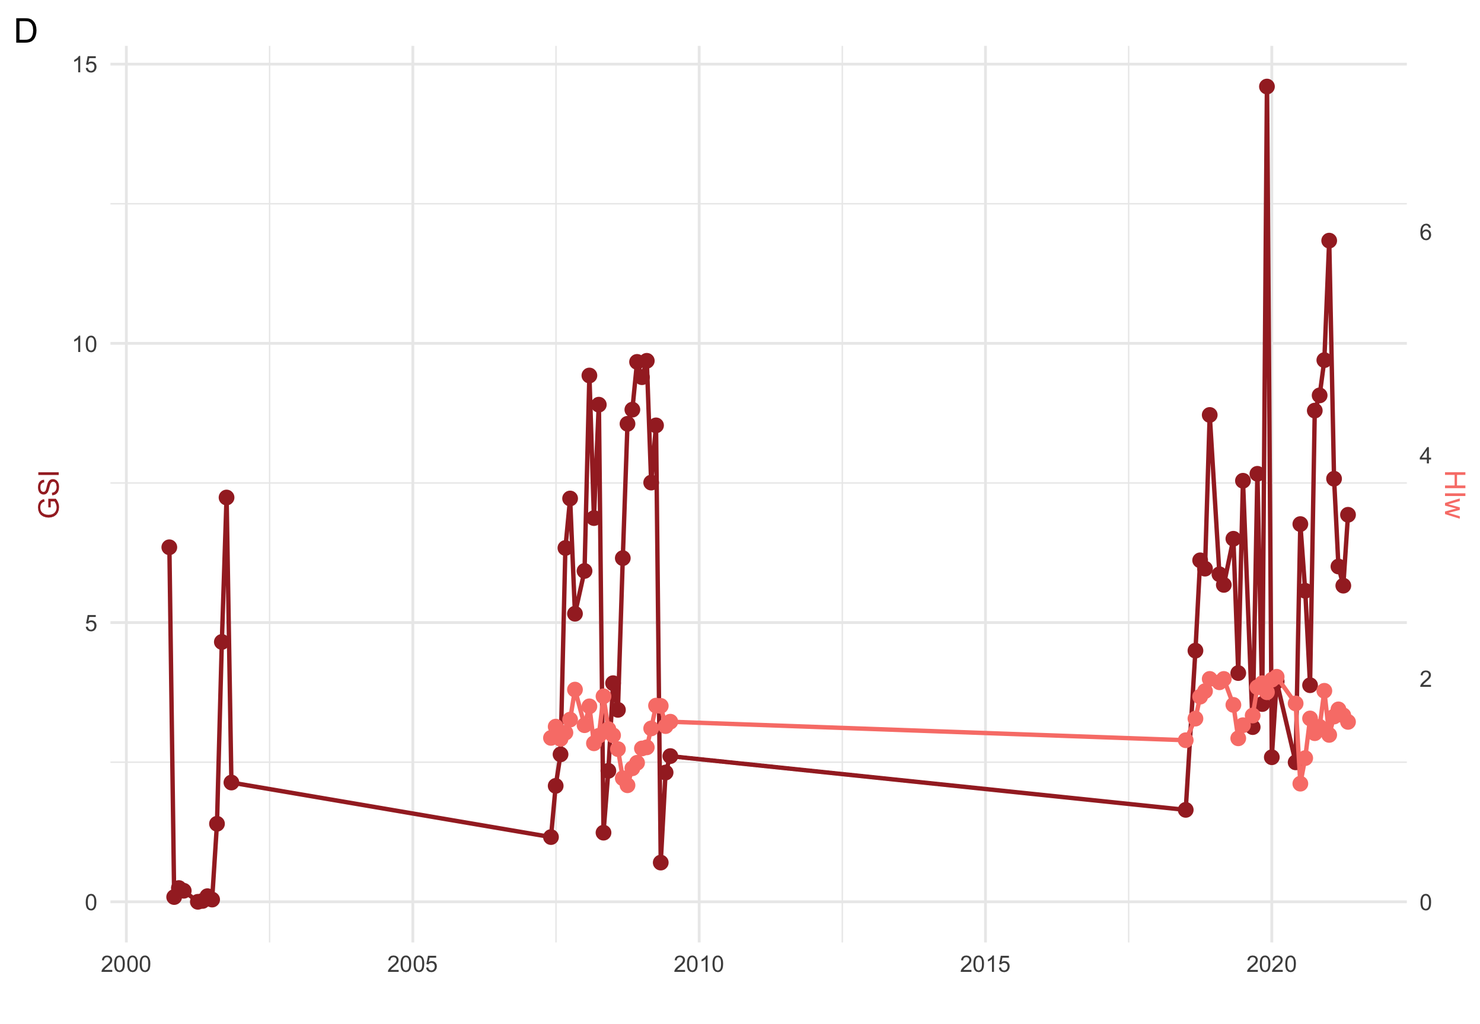
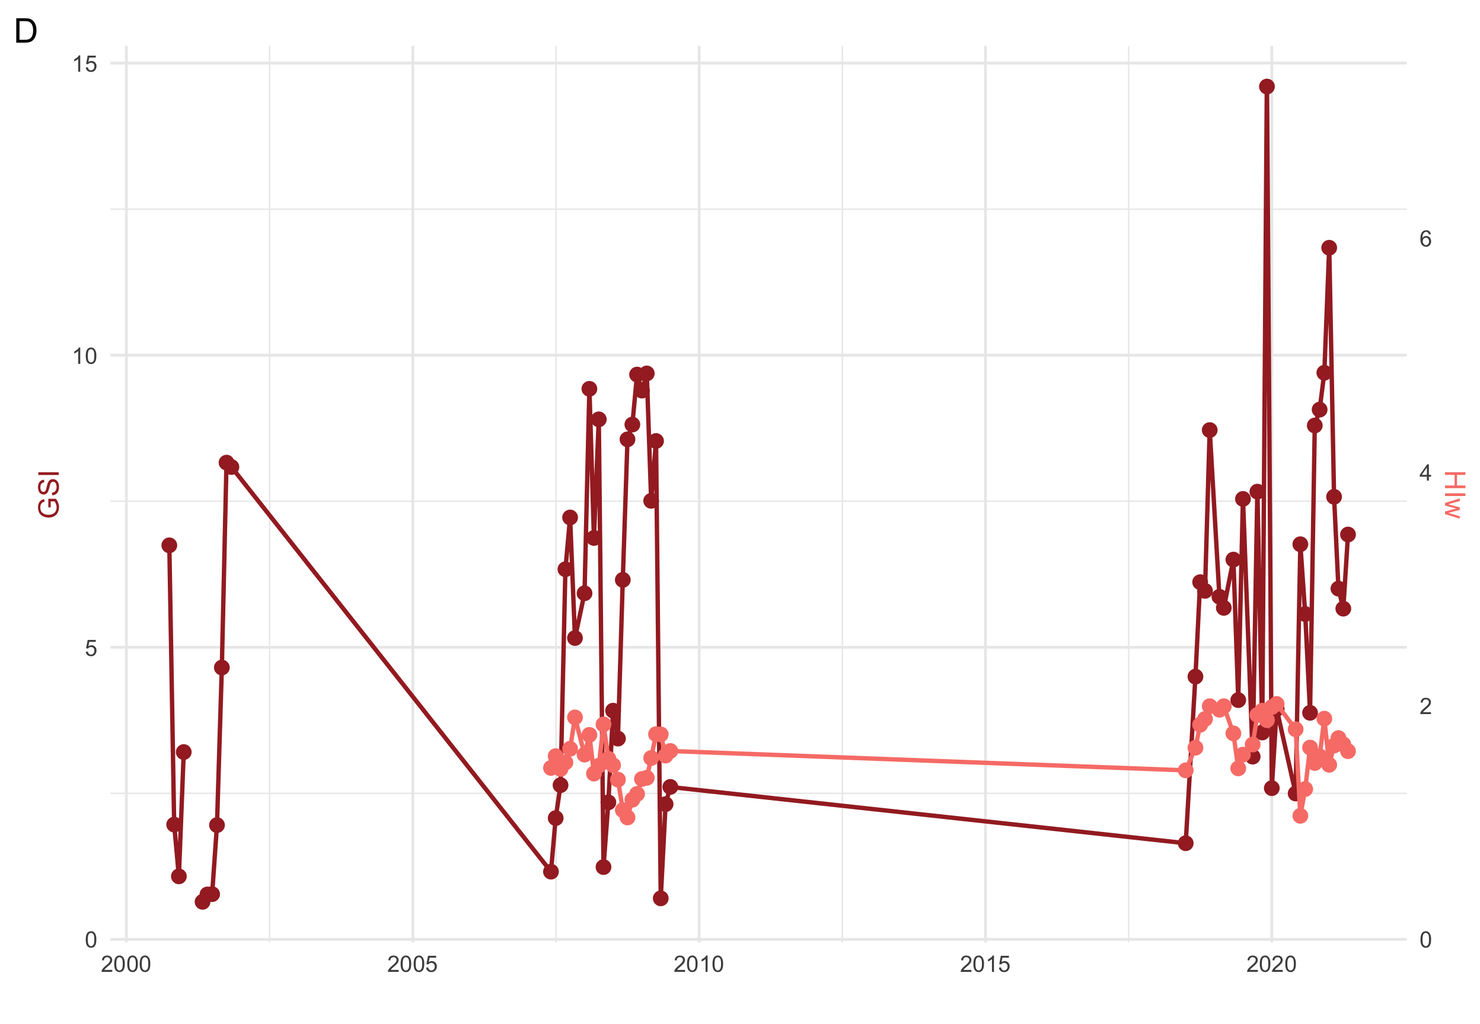
replaced 0s with NA

diff --git a/R-script/000.gambero2025_20y.html b/R-script/000.gambero2025_20y.html
@@ -118,7 +118,7 @@ pre > code.sourceCode > span > a:first-child::before { text-decoration: underlin
 <div class="sourceCode cell-code" id="cb1"><pre class="sourceCode r code-with-copy"><code class="sourceCode r"><span id="cb1-1"><a href="#cb1-1" aria-hidden="true" tabindex="-1"></a><span class="co"># import data</span></span>
 <span id="cb1-2"><a href="#cb1-2" aria-hidden="true" tabindex="-1"></a>pc <span class="ot">&lt;-</span> <span class="fu">read.xlsx</span>(<span class="fu">here</span>(<span class="st">"input/Gamberi morfometria 2000-2021.xlsx"</span>),</span>
 <span id="cb1-3"><a href="#cb1-3" aria-hidden="true" tabindex="-1"></a>                <span class="at">detectDates =</span> T)</span>
-<span id="cb1-4"><a href="#cb1-4" aria-hidden="true" tabindex="-1"></a></span>
+<span id="cb1-4"><a href="#cb1-4" aria-hidden="true" tabindex="-1"></a>pc[pc<span class="sc">==</span><span class="dv">0</span>] <span class="ot">&lt;-</span> <span class="cn">NA</span> <span class="co"># remove 0s</span></span>
 <span id="cb1-5"><a href="#cb1-5" aria-hidden="true" tabindex="-1"></a><span class="fu">glimpse</span>(pc)</span></code><button title="Copy to Clipboard" class="code-copy-button"><i class="bi"></i></button></pre></div>
 <div class="cell-output cell-output-stdout">
 <pre><code>Rows: 8,059
@@ -207,12 +207,12 @@ $ peso.gonadi     &lt;dbl&gt; NA, NA, NA, NA, NA, NA, NA, NA, NA, NA, NA, NA, NA
 <tr class="odd">
 <td style="text-align: left;">F</td>
 <td style="text-align: left;">peso.addome</td>
-<td style="text-align: right;">3296</td>
-<td style="text-align: right;">0.00</td>
+<td style="text-align: right;">3295</td>
+<td style="text-align: right;">0.40</td>
 <td style="text-align: right;">17.30</td>
 <td style="text-align: right;">6.30</td>
 <td style="text-align: right;">3.50</td>
-<td style="text-align: right;">6.65</td>
+<td style="text-align: right;">6.66</td>
 <td style="text-align: right;">2.66</td>
 <td style="text-align: right;">0.05</td>
 <td style="text-align: right;">0.09</td>
@@ -233,8 +233,8 @@ $ peso.gonadi     &lt;dbl&gt; NA, NA, NA, NA, NA, NA, NA, NA, NA, NA, NA, NA, NA
 <tr class="odd">
 <td style="text-align: left;">F</td>
 <td style="text-align: left;">Hiw</td>
-<td style="text-align: right;">2613</td>
-<td style="text-align: right;">0.00</td>
+<td style="text-align: right;">2612</td>
+<td style="text-align: right;">0.62</td>
 <td style="text-align: right;">19.40</td>
 <td style="text-align: right;">6.49</td>
 <td style="text-align: right;">3.10</td>
@@ -246,26 +246,26 @@ $ peso.gonadi     &lt;dbl&gt; NA, NA, NA, NA, NA, NA, NA, NA, NA, NA, NA, NA, NA
 <tr class="even">
 <td style="text-align: left;">F</td>
 <td style="text-align: left;">TwB</td>
-<td style="text-align: right;">3268</td>
-<td style="text-align: right;">0.00</td>
+<td style="text-align: right;">3258</td>
+<td style="text-align: right;">2.15</td>
 <td style="text-align: right;">53.64</td>
-<td style="text-align: right;">27.65</td>
+<td style="text-align: right;">27.66</td>
 <td style="text-align: right;">5.40</td>
-<td style="text-align: right;">28.27</td>
-<td style="text-align: right;">4.56</td>
-<td style="text-align: right;">0.08</td>
-<td style="text-align: right;">0.16</td>
+<td style="text-align: right;">28.35</td>
+<td style="text-align: right;">4.29</td>
+<td style="text-align: right;">0.07</td>
+<td style="text-align: right;">0.15</td>
 </tr>
 <tr class="odd">
 <td style="text-align: left;">F</td>
 <td style="text-align: left;">peso.gonadi</td>
-<td style="text-align: right;">1568</td>
-<td style="text-align: right;">0.00</td>
+<td style="text-align: right;">1114</td>
+<td style="text-align: right;">0.02</td>
 <td style="text-align: right;">4.41</td>
-<td style="text-align: right;">0.67</td>
-<td style="text-align: right;">1.67</td>
-<td style="text-align: right;">0.95</td>
-<td style="text-align: right;">0.98</td>
+<td style="text-align: right;">1.16</td>
+<td style="text-align: right;">1.40</td>
+<td style="text-align: right;">1.34</td>
+<td style="text-align: right;">0.91</td>
 <td style="text-align: right;">0.03</td>
 <td style="text-align: right;">0.05</td>
 </tr>
@@ -285,8 +285,8 @@ $ peso.gonadi     &lt;dbl&gt; NA, NA, NA, NA, NA, NA, NA, NA, NA, NA, NA, NA, NA
 <tr class="odd">
 <td style="text-align: left;">M</td>
 <td style="text-align: left;">peso.tot</td>
-<td style="text-align: right;">4640</td>
-<td style="text-align: right;">0.00</td>
+<td style="text-align: right;">4639</td>
+<td style="text-align: right;">1.20</td>
 <td style="text-align: right;">76.70</td>
 <td style="text-align: right;">21.30</td>
 <td style="text-align: right;">12.40</td>
@@ -298,8 +298,8 @@ $ peso.gonadi     &lt;dbl&gt; NA, NA, NA, NA, NA, NA, NA, NA, NA, NA, NA, NA, NA
 <tr class="even">
 <td style="text-align: left;">M</td>
 <td style="text-align: left;">peso.addome</td>
-<td style="text-align: right;">4720</td>
-<td style="text-align: right;">0.00</td>
+<td style="text-align: right;">4719</td>
+<td style="text-align: right;">0.40</td>
 <td style="text-align: right;">33.20</td>
 <td style="text-align: right;">5.30</td>
 <td style="text-align: right;">2.40</td>
@@ -324,11 +324,11 @@ $ peso.gonadi     &lt;dbl&gt; NA, NA, NA, NA, NA, NA, NA, NA, NA, NA, NA, NA, NA
 <tr class="even">
 <td style="text-align: left;">M</td>
 <td style="text-align: left;">Hiw</td>
-<td style="text-align: right;">4059</td>
-<td style="text-align: right;">0.00</td>
+<td style="text-align: right;">4056</td>
+<td style="text-align: right;">0.56</td>
 <td style="text-align: right;">20.00</td>
-<td style="text-align: right;">5.50</td>
-<td style="text-align: right;">2.16</td>
+<td style="text-align: right;">5.51</td>
+<td style="text-align: right;">2.15</td>
 <td style="text-align: right;">5.53</td>
 <td style="text-align: right;">1.59</td>
 <td style="text-align: right;">0.03</td>
@@ -337,15 +337,15 @@ $ peso.gonadi     &lt;dbl&gt; NA, NA, NA, NA, NA, NA, NA, NA, NA, NA, NA, NA, NA
 <tr class="odd">
 <td style="text-align: left;">M</td>
 <td style="text-align: left;">TwB</td>
-<td style="text-align: right;">4623</td>
-<td style="text-align: right;">0.00</td>
+<td style="text-align: right;">4620</td>
+<td style="text-align: right;">4.78</td>
 <td style="text-align: right;">50.73</td>
 <td style="text-align: right;">25.00</td>
 <td style="text-align: right;">5.28</td>
-<td style="text-align: right;">25.32</td>
-<td style="text-align: right;">4.36</td>
+<td style="text-align: right;">25.34</td>
+<td style="text-align: right;">4.31</td>
 <td style="text-align: right;">0.06</td>
-<td style="text-align: right;">0.13</td>
+<td style="text-align: right;">0.12</td>
 </tr>
 </tbody>
 </table>
@@ -1590,6 +1590,10 @@ $ peso.gonadi     &lt;dbl&gt; NA, NA, NA, NA, NA, NA, NA, NA, NA, NA, NA, NA, NA
 <span id="cb27-11"><a href="#cb27-11" aria-hidden="true" tabindex="-1"></a>        <span class="at">axis.title.y.right =</span> <span class="fu">element_text</span>(<span class="at">color =</span> <span class="st">"#F98178"</span>)</span>
 <span id="cb27-12"><a href="#cb27-12" aria-hidden="true" tabindex="-1"></a>    )</span></code><button title="Copy to Clipboard" class="code-copy-button"><i class="bi"></i></button></pre></div>
 <div class="cell-output cell-output-stderr">
+<pre><code>Warning: Removed 1 row containing missing values or values outside the scale range
+(`geom_point()`).</code></pre>
+</div>
+<div class="cell-output cell-output-stderr">
 <pre><code>Warning: Removed 12 rows containing missing values or values outside the scale range
 (`geom_point()`).</code></pre>
 </div>
@@ -1604,9 +1608,9 @@ $ peso.gonadi     &lt;dbl&gt; NA, NA, NA, NA, NA, NA, NA, NA, NA, NA, NA, NA, NA
 </figure>
 </div>
 </div>
-<div class="sourceCode cell-code" id="cb30"><pre class="sourceCode r code-with-copy"><code class="sourceCode r"><span id="cb30-1"><a href="#cb30-1" aria-hidden="true" tabindex="-1"></a>pc.ind <span class="sc">%&gt;%</span> </span>
-<span id="cb30-2"><a href="#cb30-2" aria-hidden="true" tabindex="-1"></a>    <span class="fu">ggplot</span>(<span class="fu">aes</span>(GSI,HIw))<span class="sc">+</span></span>
-<span id="cb30-3"><a href="#cb30-3" aria-hidden="true" tabindex="-1"></a>    <span class="fu">geom_point</span>(<span class="at">size=</span><span class="dv">3</span>)</span></code><button title="Copy to Clipboard" class="code-copy-button"><i class="bi"></i></button></pre></div>
+<div class="sourceCode cell-code" id="cb31"><pre class="sourceCode r code-with-copy"><code class="sourceCode r"><span id="cb31-1"><a href="#cb31-1" aria-hidden="true" tabindex="-1"></a>pc.ind <span class="sc">%&gt;%</span> </span>
+<span id="cb31-2"><a href="#cb31-2" aria-hidden="true" tabindex="-1"></a>    <span class="fu">ggplot</span>(<span class="fu">aes</span>(GSI,HIw))<span class="sc">+</span></span>
+<span id="cb31-3"><a href="#cb31-3" aria-hidden="true" tabindex="-1"></a>    <span class="fu">geom_point</span>(<span class="at">size=</span><span class="dv">3</span>)</span></code><button title="Copy to Clipboard" class="code-copy-button"><i class="bi"></i></button></pre></div>
 <div class="cell-output cell-output-stderr">
 <pre><code>Warning: Removed 12 rows containing missing values or values outside the scale range
 (`geom_point()`).</code></pre>
@@ -1623,16 +1627,16 @@ $ peso.gonadi     &lt;dbl&gt; NA, NA, NA, NA, NA, NA, NA, NA, NA, NA, NA, NA, NA
 <section id="confronto-con-livelli-idrometrici" class="level2">
 <h2 class="anchored" data-anchor-id="confronto-con-livelli-idrometrici">Confronto con livelli idrometrici</h2>
 <div class="cell">
-<div class="sourceCode cell-code" id="cb32"><pre class="sourceCode r code-with-copy"><code class="sourceCode r"><span id="cb32-1"><a href="#cb32-1" aria-hidden="true" tabindex="-1"></a>livello <span class="ot">&lt;-</span> <span class="fu">read.xlsx</span>(<span class="fu">here</span>(<span class="st">'input/idrometro/idrometroSSavino2000-2021.xlsx'</span>),</span>
-<span id="cb32-2"><a href="#cb32-2" aria-hidden="true" tabindex="-1"></a>                     <span class="at">detectDates =</span> T) </span>
-<span id="cb32-3"><a href="#cb32-3" aria-hidden="true" tabindex="-1"></a>liv <span class="ot">&lt;-</span> livello <span class="sc">%&gt;%</span> </span>
-<span id="cb32-4"><a href="#cb32-4" aria-hidden="true" tabindex="-1"></a>  <span class="fu">rename</span>(<span class="at">date=</span>data, <span class="at">avg=</span>livello.idrometrico)</span>
-<span id="cb32-5"><a href="#cb32-5" aria-hidden="true" tabindex="-1"></a></span>
-<span id="cb32-6"><a href="#cb32-6" aria-hidden="true" tabindex="-1"></a>liv <span class="sc">%&gt;%</span> </span>
-<span id="cb32-7"><a href="#cb32-7" aria-hidden="true" tabindex="-1"></a>    <span class="fu">ggplot</span>(<span class="fu">aes</span>(date,avg))<span class="sc">+</span></span>
-<span id="cb32-8"><a href="#cb32-8" aria-hidden="true" tabindex="-1"></a>    <span class="fu">geom_point</span>()<span class="sc">+</span></span>
-<span id="cb32-9"><a href="#cb32-9" aria-hidden="true" tabindex="-1"></a>    <span class="fu">geom_line</span>()<span class="sc">+</span></span>
-<span id="cb32-10"><a href="#cb32-10" aria-hidden="true" tabindex="-1"></a>    <span class="fu">labs</span>(<span class="at">x=</span><span class="st">''</span>)</span></code><button title="Copy to Clipboard" class="code-copy-button"><i class="bi"></i></button></pre></div>
+<div class="sourceCode cell-code" id="cb33"><pre class="sourceCode r code-with-copy"><code class="sourceCode r"><span id="cb33-1"><a href="#cb33-1" aria-hidden="true" tabindex="-1"></a>livello <span class="ot">&lt;-</span> <span class="fu">read.xlsx</span>(<span class="fu">here</span>(<span class="st">'input/idrometro/idrometroSSavino2000-2021.xlsx'</span>),</span>
+<span id="cb33-2"><a href="#cb33-2" aria-hidden="true" tabindex="-1"></a>                     <span class="at">detectDates =</span> T) </span>
+<span id="cb33-3"><a href="#cb33-3" aria-hidden="true" tabindex="-1"></a>liv <span class="ot">&lt;-</span> livello <span class="sc">%&gt;%</span> </span>
+<span id="cb33-4"><a href="#cb33-4" aria-hidden="true" tabindex="-1"></a>  <span class="fu">rename</span>(<span class="at">date=</span>data, <span class="at">avg=</span>livello.idrometrico)</span>
+<span id="cb33-5"><a href="#cb33-5" aria-hidden="true" tabindex="-1"></a></span>
+<span id="cb33-6"><a href="#cb33-6" aria-hidden="true" tabindex="-1"></a>liv <span class="sc">%&gt;%</span> </span>
+<span id="cb33-7"><a href="#cb33-7" aria-hidden="true" tabindex="-1"></a>    <span class="fu">ggplot</span>(<span class="fu">aes</span>(date,avg))<span class="sc">+</span></span>
+<span id="cb33-8"><a href="#cb33-8" aria-hidden="true" tabindex="-1"></a>    <span class="fu">geom_point</span>()<span class="sc">+</span></span>
+<span id="cb33-9"><a href="#cb33-9" aria-hidden="true" tabindex="-1"></a>    <span class="fu">geom_line</span>()<span class="sc">+</span></span>
+<span id="cb33-10"><a href="#cb33-10" aria-hidden="true" tabindex="-1"></a>    <span class="fu">labs</span>(<span class="at">x=</span><span class="st">''</span>)</span></code><button title="Copy to Clipboard" class="code-copy-button"><i class="bi"></i></button></pre></div>
 <div class="cell-output cell-output-stderr">
 <pre><code>Warning: Removed 1 row containing missing values or values outside the scale range
 (`geom_point()`).</code></pre>
@@ -1648,22 +1652,22 @@ $ peso.gonadi     &lt;dbl&gt; NA, NA, NA, NA, NA, NA, NA, NA, NA, NA, NA, NA, NA
 <section id="mute-1" class="level3">
 <h3 class="anchored" data-anchor-id="mute-1">mute</h3>
 <div class="cell">
-<div class="sourceCode cell-code" id="cb34"><pre class="sourceCode r code-with-copy"><code class="sourceCode r"><span id="cb34-1"><a href="#cb34-1" aria-hidden="true" tabindex="-1"></a><span class="co"># head(mute)</span></span>
-<span id="cb34-2"><a href="#cb34-2" aria-hidden="true" tabindex="-1"></a></span>
-<span id="cb34-3"><a href="#cb34-3" aria-hidden="true" tabindex="-1"></a>mute <span class="sc">%&gt;%</span> </span>
-<span id="cb34-4"><a href="#cb34-4" aria-hidden="true" tabindex="-1"></a>    <span class="fu">ggplot</span>(<span class="fu">aes</span>(date,n))<span class="sc">+</span></span>
-<span id="cb34-5"><a href="#cb34-5" aria-hidden="true" tabindex="-1"></a>    <span class="co">#geom_point(data=liv,aes(date,(avg+1)*100), col='#0082FF')+</span></span>
-<span id="cb34-6"><a href="#cb34-6" aria-hidden="true" tabindex="-1"></a>    <span class="fu">geom_line</span>(<span class="at">data=</span>liv,<span class="fu">aes</span>(date,(avg<span class="sc">+</span><span class="dv">1</span>)<span class="sc">*</span><span class="dv">100</span>), </span>
-<span id="cb34-7"><a href="#cb34-7" aria-hidden="true" tabindex="-1"></a>              <span class="at">col=</span><span class="st">'#0082FF'</span>, <span class="at">alpha=</span><span class="fl">0.2</span>, <span class="at">lwd=</span><span class="dv">2</span>)<span class="sc">+</span></span>
-<span id="cb34-8"><a href="#cb34-8" aria-hidden="true" tabindex="-1"></a>    <span class="co">#geom_point(aes(col=sesso), size=4)+</span></span>
-<span id="cb34-9"><a href="#cb34-9" aria-hidden="true" tabindex="-1"></a>    <span class="fu">geom_line</span>(<span class="fu">aes</span>(<span class="at">col=</span>sesso), <span class="at">lwd=</span><span class="fl">1.3</span>, <span class="at">alpha=</span><span class="fl">0.8</span>)<span class="sc">+</span></span>
-<span id="cb34-10"><a href="#cb34-10" aria-hidden="true" tabindex="-1"></a>    <span class="fu">scale_y_continuous</span>(<span class="at">sec.axis =</span> <span class="fu">sec_axis</span>(<span class="sc">~</span>. <span class="sc">/</span><span class="dv">100-1</span>, </span>
-<span id="cb34-11"><a href="#cb34-11" aria-hidden="true" tabindex="-1"></a>                                           <span class="at">name =</span> <span class="st">"Hydrometric level"</span>)) <span class="sc">+</span></span>
-<span id="cb34-12"><a href="#cb34-12" aria-hidden="true" tabindex="-1"></a>    <span class="fu">labs</span>(<span class="at">x=</span><span class="st">''</span>) <span class="sc">+</span></span>
-<span id="cb34-13"><a href="#cb34-13" aria-hidden="true" tabindex="-1"></a>    <span class="fu">theme</span>(</span>
-<span id="cb34-14"><a href="#cb34-14" aria-hidden="true" tabindex="-1"></a>        <span class="at">legend.position =</span> <span class="st">'none'</span>,</span>
-<span id="cb34-15"><a href="#cb34-15" aria-hidden="true" tabindex="-1"></a>        <span class="at">axis.title.y.right =</span> <span class="fu">element_text</span>(<span class="at">color =</span> <span class="st">'#0082FF'</span>)</span>
-<span id="cb34-16"><a href="#cb34-16" aria-hidden="true" tabindex="-1"></a>    )</span></code><button title="Copy to Clipboard" class="code-copy-button"><i class="bi"></i></button></pre></div>
+<div class="sourceCode cell-code" id="cb35"><pre class="sourceCode r code-with-copy"><code class="sourceCode r"><span id="cb35-1"><a href="#cb35-1" aria-hidden="true" tabindex="-1"></a><span class="co"># head(mute)</span></span>
+<span id="cb35-2"><a href="#cb35-2" aria-hidden="true" tabindex="-1"></a></span>
+<span id="cb35-3"><a href="#cb35-3" aria-hidden="true" tabindex="-1"></a>mute <span class="sc">%&gt;%</span> </span>
+<span id="cb35-4"><a href="#cb35-4" aria-hidden="true" tabindex="-1"></a>    <span class="fu">ggplot</span>(<span class="fu">aes</span>(date,n))<span class="sc">+</span></span>
+<span id="cb35-5"><a href="#cb35-5" aria-hidden="true" tabindex="-1"></a>    <span class="co">#geom_point(data=liv,aes(date,(avg+1)*100), col='#0082FF')+</span></span>
+<span id="cb35-6"><a href="#cb35-6" aria-hidden="true" tabindex="-1"></a>    <span class="fu">geom_line</span>(<span class="at">data=</span>liv,<span class="fu">aes</span>(date,(avg<span class="sc">+</span><span class="dv">1</span>)<span class="sc">*</span><span class="dv">100</span>), </span>
+<span id="cb35-7"><a href="#cb35-7" aria-hidden="true" tabindex="-1"></a>              <span class="at">col=</span><span class="st">'#0082FF'</span>, <span class="at">alpha=</span><span class="fl">0.2</span>, <span class="at">lwd=</span><span class="dv">2</span>)<span class="sc">+</span></span>
+<span id="cb35-8"><a href="#cb35-8" aria-hidden="true" tabindex="-1"></a>    <span class="co">#geom_point(aes(col=sesso), size=4)+</span></span>
+<span id="cb35-9"><a href="#cb35-9" aria-hidden="true" tabindex="-1"></a>    <span class="fu">geom_line</span>(<span class="fu">aes</span>(<span class="at">col=</span>sesso), <span class="at">lwd=</span><span class="fl">1.3</span>, <span class="at">alpha=</span><span class="fl">0.8</span>)<span class="sc">+</span></span>
+<span id="cb35-10"><a href="#cb35-10" aria-hidden="true" tabindex="-1"></a>    <span class="fu">scale_y_continuous</span>(<span class="at">sec.axis =</span> <span class="fu">sec_axis</span>(<span class="sc">~</span>. <span class="sc">/</span><span class="dv">100-1</span>, </span>
+<span id="cb35-11"><a href="#cb35-11" aria-hidden="true" tabindex="-1"></a>                                           <span class="at">name =</span> <span class="st">"Hydrometric level"</span>)) <span class="sc">+</span></span>
+<span id="cb35-12"><a href="#cb35-12" aria-hidden="true" tabindex="-1"></a>    <span class="fu">labs</span>(<span class="at">x=</span><span class="st">''</span>) <span class="sc">+</span></span>
+<span id="cb35-13"><a href="#cb35-13" aria-hidden="true" tabindex="-1"></a>    <span class="fu">theme</span>(</span>
+<span id="cb35-14"><a href="#cb35-14" aria-hidden="true" tabindex="-1"></a>        <span class="at">legend.position =</span> <span class="st">'none'</span>,</span>
+<span id="cb35-15"><a href="#cb35-15" aria-hidden="true" tabindex="-1"></a>        <span class="at">axis.title.y.right =</span> <span class="fu">element_text</span>(<span class="at">color =</span> <span class="st">'#0082FF'</span>)</span>
+<span id="cb35-16"><a href="#cb35-16" aria-hidden="true" tabindex="-1"></a>    )</span></code><button title="Copy to Clipboard" class="code-copy-button"><i class="bi"></i></button></pre></div>
 <div class="cell-output-display">
 <div>
 <figure class="figure">
@@ -1676,17 +1680,17 @@ $ peso.gonadi     &lt;dbl&gt; NA, NA, NA, NA, NA, NA, NA, NA, NA, NA, NA, NA, NA
 <section id="femmine-mature" class="level3">
 <h3 class="anchored" data-anchor-id="femmine-mature">Femmine mature</h3>
 <div class="cell">
-<div class="sourceCode cell-code" id="cb35"><pre class="sourceCode r code-with-copy"><code class="sourceCode r"><span id="cb35-1"><a href="#cb35-1" aria-hidden="true" tabindex="-1"></a><span class="co"># head(pc.f)</span></span>
-<span id="cb35-2"><a href="#cb35-2" aria-hidden="true" tabindex="-1"></a></span>
-<span id="cb35-3"><a href="#cb35-3" aria-hidden="true" tabindex="-1"></a>pc.f <span class="sc">%&gt;%</span> </span>
-<span id="cb35-4"><a href="#cb35-4" aria-hidden="true" tabindex="-1"></a>    <span class="fu">filter</span>(maturità.gonadi<span class="sc">==</span><span class="st">'MATURE'</span>) <span class="sc">%&gt;%</span> </span>
-<span id="cb35-5"><a href="#cb35-5" aria-hidden="true" tabindex="-1"></a>    <span class="fu">count</span>(date,maturità.gonadi) <span class="sc">%&gt;%</span> </span>
-<span id="cb35-6"><a href="#cb35-6" aria-hidden="true" tabindex="-1"></a>    <span class="fu">ggplot</span>(<span class="fu">aes</span>(date,n))<span class="sc">+</span></span>
-<span id="cb35-7"><a href="#cb35-7" aria-hidden="true" tabindex="-1"></a>    <span class="fu">geom_line</span>(<span class="at">data=</span>liv,<span class="fu">aes</span>(date,(avg<span class="sc">+</span><span class="dv">1</span>)<span class="sc">*</span><span class="dv">100</span>), </span>
-<span id="cb35-8"><a href="#cb35-8" aria-hidden="true" tabindex="-1"></a>              <span class="at">col=</span><span class="st">'#0082FF'</span>, <span class="at">alpha=</span><span class="fl">0.2</span>, <span class="at">lwd=</span><span class="dv">2</span>)<span class="sc">+</span></span>
-<span id="cb35-9"><a href="#cb35-9" aria-hidden="true" tabindex="-1"></a>    <span class="co">#geom_point(col='#F19837', size=4)+</span></span>
-<span id="cb35-10"><a href="#cb35-10" aria-hidden="true" tabindex="-1"></a>    <span class="fu">geom_line</span>(<span class="at">col=</span><span class="st">'#F19837'</span>, <span class="at">lwd=</span><span class="fl">1.3</span>)<span class="sc">+</span></span>
-<span id="cb35-11"><a href="#cb35-11" aria-hidden="true" tabindex="-1"></a>    <span class="fu">labs</span>(<span class="at">x=</span><span class="st">''</span>)</span></code><button title="Copy to Clipboard" class="code-copy-button"><i class="bi"></i></button></pre></div>
+<div class="sourceCode cell-code" id="cb36"><pre class="sourceCode r code-with-copy"><code class="sourceCode r"><span id="cb36-1"><a href="#cb36-1" aria-hidden="true" tabindex="-1"></a><span class="co"># head(pc.f)</span></span>
+<span id="cb36-2"><a href="#cb36-2" aria-hidden="true" tabindex="-1"></a></span>
+<span id="cb36-3"><a href="#cb36-3" aria-hidden="true" tabindex="-1"></a>pc.f <span class="sc">%&gt;%</span> </span>
+<span id="cb36-4"><a href="#cb36-4" aria-hidden="true" tabindex="-1"></a>    <span class="fu">filter</span>(maturità.gonadi<span class="sc">==</span><span class="st">'MATURE'</span>) <span class="sc">%&gt;%</span> </span>
+<span id="cb36-5"><a href="#cb36-5" aria-hidden="true" tabindex="-1"></a>    <span class="fu">count</span>(date,maturità.gonadi) <span class="sc">%&gt;%</span> </span>
+<span id="cb36-6"><a href="#cb36-6" aria-hidden="true" tabindex="-1"></a>    <span class="fu">ggplot</span>(<span class="fu">aes</span>(date,n))<span class="sc">+</span></span>
+<span id="cb36-7"><a href="#cb36-7" aria-hidden="true" tabindex="-1"></a>    <span class="fu">geom_line</span>(<span class="at">data=</span>liv,<span class="fu">aes</span>(date,(avg<span class="sc">+</span><span class="dv">1</span>)<span class="sc">*</span><span class="dv">100</span>), </span>
+<span id="cb36-8"><a href="#cb36-8" aria-hidden="true" tabindex="-1"></a>              <span class="at">col=</span><span class="st">'#0082FF'</span>, <span class="at">alpha=</span><span class="fl">0.2</span>, <span class="at">lwd=</span><span class="dv">2</span>)<span class="sc">+</span></span>
+<span id="cb36-9"><a href="#cb36-9" aria-hidden="true" tabindex="-1"></a>    <span class="co">#geom_point(col='#F19837', size=4)+</span></span>
+<span id="cb36-10"><a href="#cb36-10" aria-hidden="true" tabindex="-1"></a>    <span class="fu">geom_line</span>(<span class="at">col=</span><span class="st">'#F19837'</span>, <span class="at">lwd=</span><span class="fl">1.3</span>)<span class="sc">+</span></span>
+<span id="cb36-11"><a href="#cb36-11" aria-hidden="true" tabindex="-1"></a>    <span class="fu">labs</span>(<span class="at">x=</span><span class="st">''</span>)</span></code><button title="Copy to Clipboard" class="code-copy-button"><i class="bi"></i></button></pre></div>
 <div class="cell-output-display">
 <div>
 <figure class="figure">
